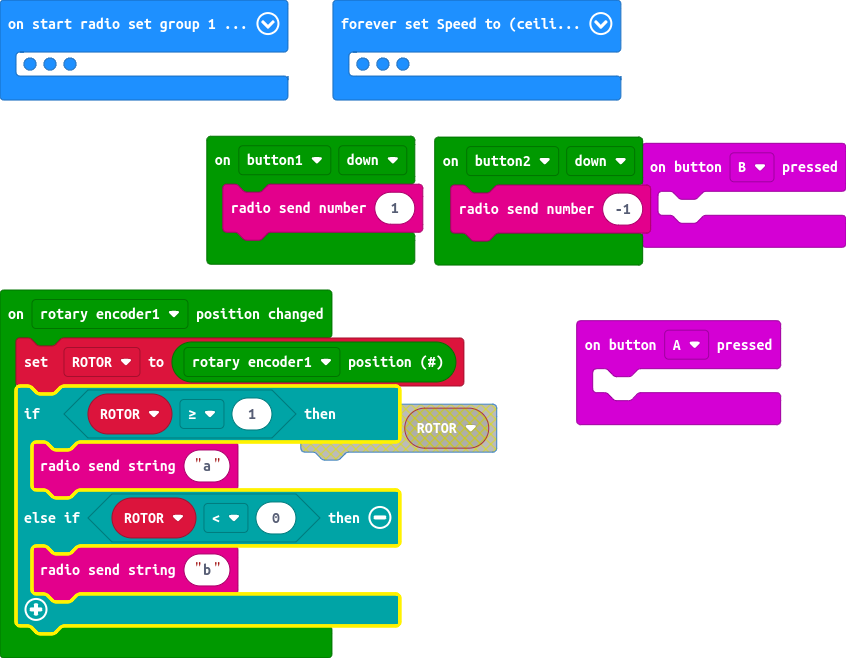
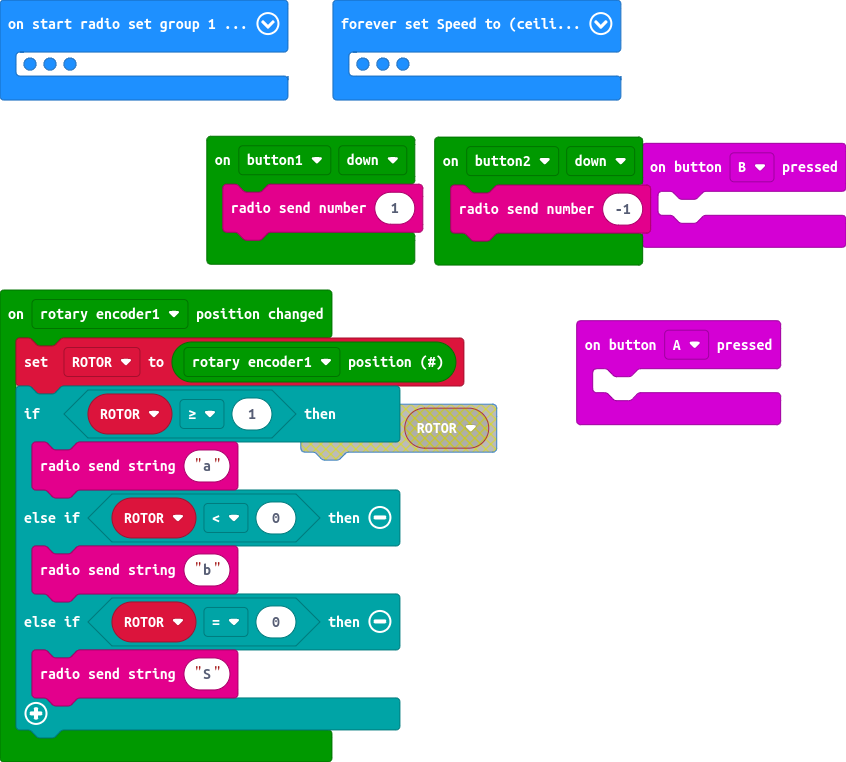
Update main.blocks, main.ts

diff --git a/main.ts b/main.ts
@@ -4,6 +4,8 @@ modules.rotaryEncoder1.onPositionChanged(function () {
         radio.sendString("a")
     } else if (ROTOR < 0) {
         radio.sendString("b")
+    } else if (ROTOR == 0) {
+        radio.sendString("S")
     }
 })
 modules.button1.onEvent(jacdac.ButtonEvent.Down, function () {
